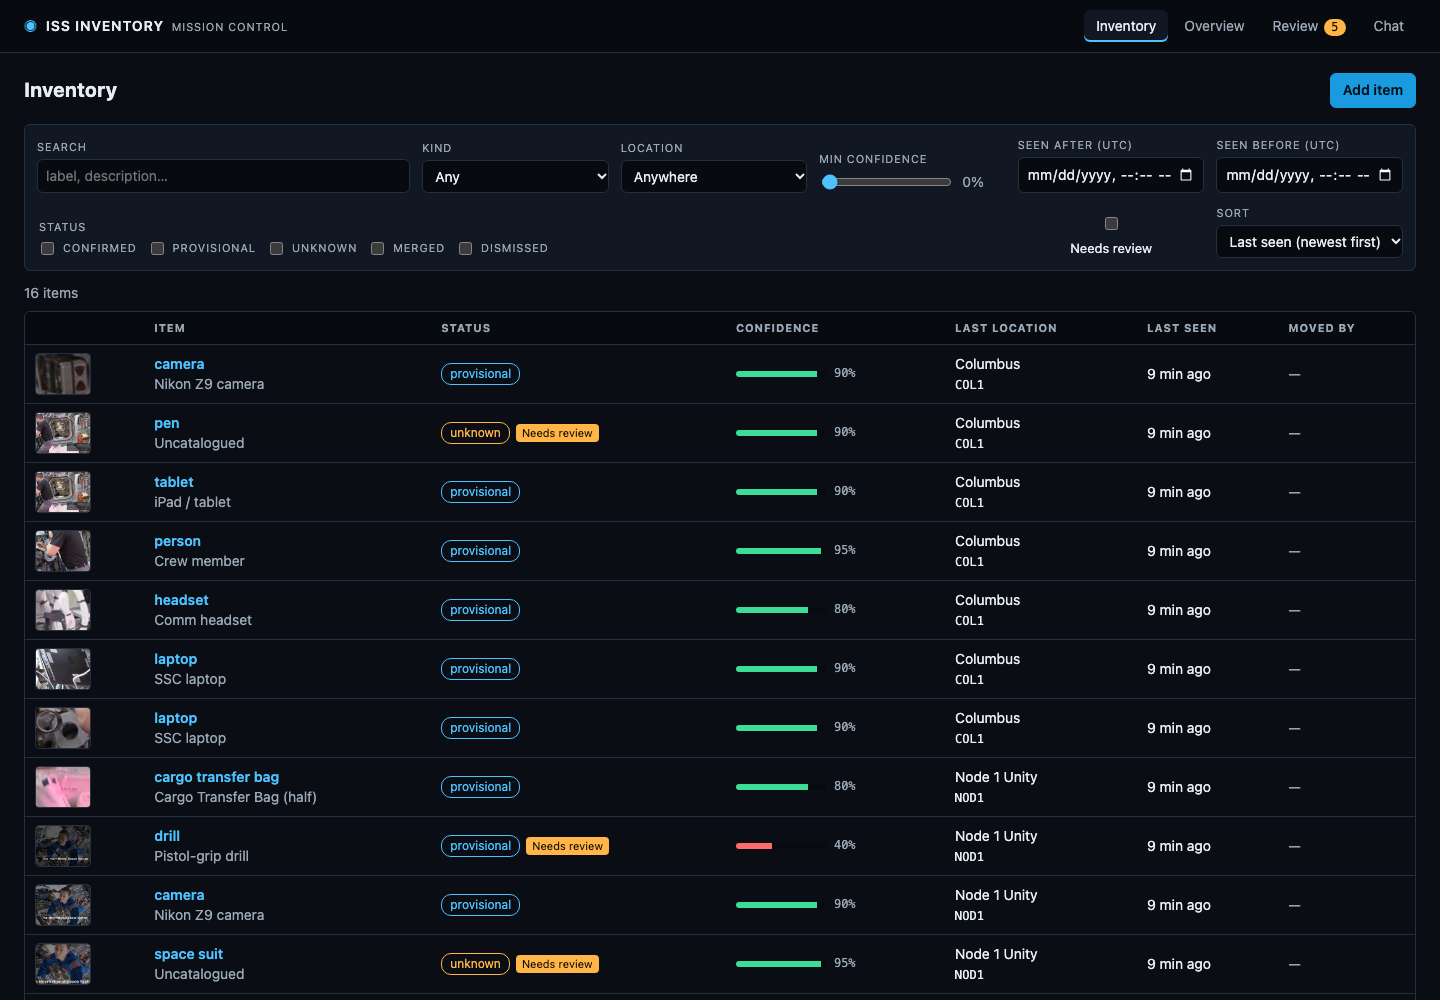
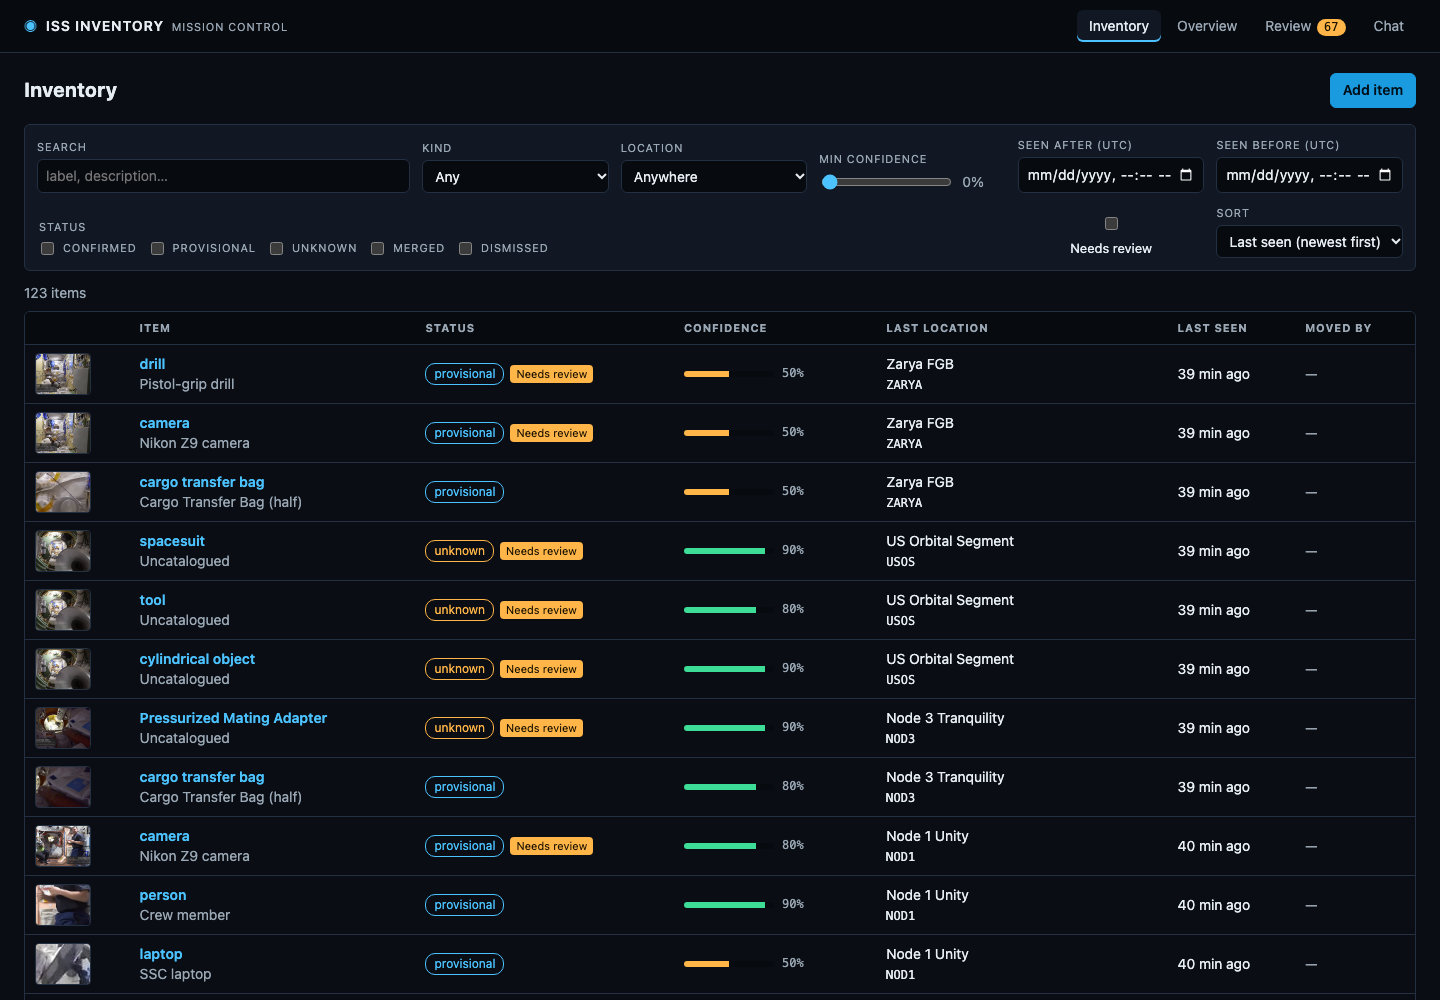
Full ISS tour run: README results, refreshed screenshots, stride 12 for T4 sizing, follow-ups logged
- full tour: 8 modules tracked, DiffusionGemma matched 41/44 same-or-new questions, 0 errors
- open: revisit dedup after long gaps (QUESTIONS #29), omni ignores output budget (#28), unknown label variants (#27)

diff --git a/README.md b/README.md
@@ -1,0 +1,124 @@
+# NASA Omni Inventory POC
+
+An experimental proof of concept for the International Space Station. **vLLM-Omni takes video and audio together**,
+identifies and tracks objects and people, and keeps a **Postgres inventory** that mission control can browse, correct
+and question in natural language. It is built only from open-source components, on OpenShift with Open Data Hub (the
+upstream of Red Hat OpenShift AI).
+
+Status: running end to end on ARO (2026-10-17) against NASA's public-domain *Step Inside the International Space
+Station* tour video. This is experimental; known limits are listed below and in `docs/QUESTIONS.md`.
+
+![Inventory](docs/screenshots/inventory.png)
+
+## What is deployed
+
+| Namespace | Component | What it does |
+|---|---|---|
+| `nasa-inference` | **vLLM-Omni** serving Qwen2.5-Omni-7B, thinker only (fp16, TP2 on T4) | Takes 6 frames + audio per window and returns a structured observation: objects, people, events, location hint |
+| | **Qwen3-ASR-1.7B** (vLLM) | Speech transcript of record |
+| | **Qwen3-8B-AWQ** (vLLM, tool calling) | Chatbot / inventory agent |
+| | **DiffusionGemma-26B INT8** (vLLM TP4) + structured decision server | Decision model: "same object or new?" and speech-act classification, with calibrated probabilities |
+| `nasa-app` | **perception** (Python, own T4) | ffmpeg ingest, then OWLv2 detection + DINOv2 embeddings, then omni window, then the closed-world reconciler (dedup), then the inventory API |
+| | **inventory-api** (FastAPI) | Source-of-truth API: items, review queue, merges with full undo detail, events, search, media |
+| | **agent** (+ MCP server) | Grounded chatbot that cites entity, window and catalog IDs; refuses ungrounded answers; inventory-first "dreaming" memory |
+| | **dashboard** (React + nginx) | Inventory with filters, review queue, overview and events, add/edit items, chat |
+| `nasa-data` | **Postgres 16 + pgvector** (CloudNativePG, 2 instances) | Inventory database, the source of truth |
+| | **RustFS** (S3, Apache-2.0) | Frames, crops, evidence images, raw omni replies, operator photos |
+| `opendatahub` | **Open Data Hub 3.3** | KServe (RawDeployment), dashboard, TrustyAI, model registry |
+
+The design, requirements (R1 to R12) and decisions are in [`docs/ARCHITECTURE.md`](docs/ARCHITECTURE.md). The
+research behind it (vLLM-Omni realtime, tracking and dedup, audio fusion, the ISS domain, agent memory, decision
+models) is in [`research/`](research/).
+
+## How duplicates are kept down
+
+The ISS is a closed world, and the reconciler uses that:
+1. Labels are mapped to the **catalog**, using synonyms.
+2. Repeated listings from omni are **consolidated within each window**.
+3. Candidates come from **pgvector** search over DINOv2 crops of full-resolution frames.
+4. **Hard gates** rule out impossible matches: class, and transit between modules too fast to be real.
+5. Matches fall into **three bands**:
+   - **auto-merge** at ≥ 0.85;
+   - **DiffusionGemma decides** between 0.5 and 0.85;
+   - **new** below 0.5.
+6. A **possible-duplicate review** opens when an item's `expected_count` would be exceeded.
+7. Fungible items (food packs, wipes and so on) are kept as **stock counts**, not individual entities.
+
+Unknown objects go to the **review queue** with image, description, timestamp, location and the model's guess. NASA can
+classify them, create a new catalog item, merge them into an existing item, or dismiss them.
+
+| Inventory with filters | Review queue (unknowns, with images) |
+|---|---|
+| ![](docs/screenshots/inventory.png) | ![](docs/screenshots/review.png) |
+| **Overview / recent events** | **Add an unseen item (image required)** |
+| ![](docs/screenshots/overview.png) | ![](docs/screenshots/additem.png) |
+
+## Development process: spec first, strict TDD, eval gates
+
+Every component was built from a spec with acceptance criteria (`docs/spec/*.md`, for example `AC-PER-22`) by a
+multi-agent pipeline: **tester** (red) → **developer** (green) → **adversarial reviewer** → **fixer** → **verifier**.
+The cycles are logged in [`docs/tdd-log/`](docs/tdd-log/). Each cluster-integration bug was turned into a failing
+test before it was fixed (see the "cluster integration" sections of the TDD logs).
+
+```bash
+make venvs   # python venvs + dashboard node_modules
+make test    # all suites; needs local Postgres: podman run -d --name nasa-pg-test -p 55432:5432 \
+             #   -e POSTGRES_PASSWORD=test -e POSTGRES_DB=inventory pgvector/pgvector:pg16
+make eval    # identification eval with gated thresholds (eval/thresholds.yaml)
+make lint
+```
+
+| Suite | Tests |
+|---|---|
+| inventory-api | 336 |
+| perception | 717 |
+| agent | 340 |
+| eval | 340 |
+| dashboard | 190 |
+| end-to-end | 19 |
+
+The eval gates are duplicate rate, pairwise F1, location accuracy, unknown recall, sighting recall and chatbot QA. They
+include omni profiles that reproduce the real model's behaviour seen on the cluster: repeating objects in every frame,
+and replies cut off at the token limit.
+
+## Deploying
+
+The cluster needs `oc` logged in as cluster-admin, plus `helm` and `jq`. All secrets are generated on the cluster;
+none are stored in this repo.
+
+```bash
+export KUBECONFIG=~/path/to/dedicated/kubeconfig
+./scripts/bootstrap.sh                       # gpu, odh, cnpg, data, inference, app (idempotent)
+ONLY="data app" ./scripts/bootstrap.sh       # or individual steps
+./scripts/load-sample-video.sh tour.mp4      # put a sample feed on the perception volume
+./scripts/reset-observations.sh [--yes]      # clear observation data, keep the seed (dry run without --yes)
+```
+
+## Measured on the cluster (T4 GPUs; the Azure policy denied A10)
+
+| | Value |
+|---|---|
+| OWLv2 detection | 0.35 s/frame on a T4, against 14 s/frame on 4 CPU threads |
+| DiffusionGemma decision | ~0.4 to 0.9 s, p(same) = 0.99 on a clear same-object pair |
+| Chatbot answer (tool calls + grounding) | ~9 s |
+| Omni window (6 frames + audio) | ~20 s (≈550 output tokens at ~28 tok/s); 80% of perception wall time |
+| Duplicates, first 8 windows of the tour | 56 entities before the real-video fixes, 16 after |
+| Full tour, first pass (~75 windows, 8 modules) | 0 errors; locations followed the tour (COL1, LAB1, NOD1-3, CUP1, ZARYA, ZVEZDA); DiffusionGemma matched 41 of 44 "same or new?" questions to existing items |
+| Omni replies hitting the 700-token cap | 77% (42 of 44 salvaged instead of dropped) |
+| Second pass (video looped) | 22 new entities right after the loop restart, then 5 in the next 11 windows: revisit dedup after a long gap is the main open issue (QUESTIONS #29) |
+
+Real time at a 4 s stride needs roughly 5× the omni decode speed (L4/A10-class or better). The POC runs with a
+12 s stride. See `docs/QUESTIONS.md` #26.
+
+## Known limits and open questions
+
+`docs/QUESTIONS.md` is the decision log. The headline items:
+- **Hardware.** This environment only allows T4 GPUs.
+- **OpenShift AI.** No Red Hat pull secret was available, so Open Data Hub was used instead.
+- **OpenClaw.** "Red Hat OpenClaw Enterprise" could not be verified as a product. An MCP server exposes the
+  inventory tools so it can be attached later.
+- **Crew privacy.** People are described by appearance only; there are no biometrics. Crew quarters and the WHC are
+  no-capture zones, and that policy fails closed.
+- **Omni hallucinations.** Omni sometimes names objects the detector does not confirm (a "drill" next to a
+  cable-covered rack). Such omni-only sightings store no appearance exemplar and attach to the most recent same-class
+  item in the module. Implausible ones surface through the expected-count duplicate reviews.

diff --git a/docs/QUESTIONS.md b/docs/QUESTIONS.md
@@ -116,3 +116,28 @@ I need from you.
     repeats inside one omni reply. Queued for perception after the omni-budget work.
 25. **Dashboard polish (not blocking):** recent events show the item ID (`item 550f3b9d`) rather than its label.
     Screenshots of the live dashboard are in docs/screenshots/.
+26. **Throughput and GPU sizing (measured).** On T4, omni takes 80% of the wall time: Qwen2.5-Omni-7B fp16 TP2 decodes
+    at about 28 tok/s (memory-bandwidth bound), so each window costs about 20 s, even after the output budget brought
+    tokens down from about 1,000 to about 550. Real time at a 4 s stride needs about 5× that, i.e. an L4/A10/L40S/H100.
+    The RHDP policy blocks those GPUs here.
+    - **POC setting:** `PERCEPTION_STRIDE_S=12` (a 6 s window every 12 s), so the 15 min tour takes roughly 30 min.
+    - **Options:** (a) a newer GPU, the real fix; (b) Qwen2.5-Omni-3B on 1×T4, about 2× faster with lower quality;
+      (c) parallel windows across 2 omni replicas.
+    - **Need:** the target hardware for the ISS / DGX Spark deployment, which decides between these.
+27. **Follow-up: unknown-label variants.** On the full tour, "spacesuit" and "space suit" became separate unknown
+    groups. Unknown grouping compares `normalise_label` output exactly. Proposed fix: a separate grouping key without
+    spaces or hyphens, used only for UNKNOWN-vs-UNKNOWN comparisons, plus a fuzzy fallback (`fuzzy_similarity` ≥ 0.9).
+    It is not done yet because `normalise_label` has 12 call sites, display text included, and it deserves a reviewed
+    TDD round. NASA's review queue (merge_into) covers it in the meantime.
+28. **Omni still exceeds the output budget.** Over the full tour, 77% of omni replies hit `OMNI_MAX_TOKENS=700`
+    (mean 662 tokens), and 42 of 44 were salvaged. The model largely ignores the prompt caps. Options: constrained JSON
+    decoding if vLLM-Omni adds it to chat; a fine-tuned or smaller omni; or `OMNI_MAX_OBJECTS` 8 for faster windows.
+29. **Revisit dedup after a long gap: the most important next fix.** The full tour (101 windows, with the video
+    looped) created 57 entities in windows 0–29, 37 in 30–79, a **spike of 22 right after the loop restart**
+    (windows 80–89, back in Columbus about 15 min later), then 5 in 90–100.
+    - **Likely cause:** omni-only sightings carry no embedding (quality gate, AC-PER-22). They attach only to a
+      same-class entity seen within `PERCEPTION_NO_EXEMPLAR_MATCH_S=600` s, so a module revisited after more than
+      10 min gets new entities. The expected-count rule did flag them (35 possible-duplicate reviews).
+    - **Proposed fix (TDD):** for omni-only sightings, attach by (class, module or zone) with no time limit when
+      exactly one live candidate exists; when several exist, ask DiffusionGemma with their descriptions. Add a
+      "revisit" scenario to the eval (same scene replayed after a 15 min gap, gate: new entities on the revisit ≤ 5%).
